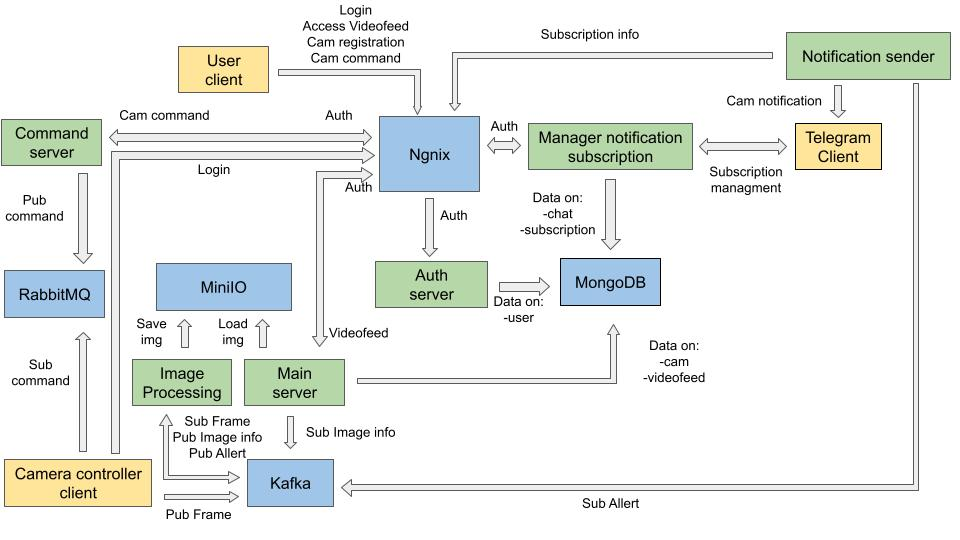
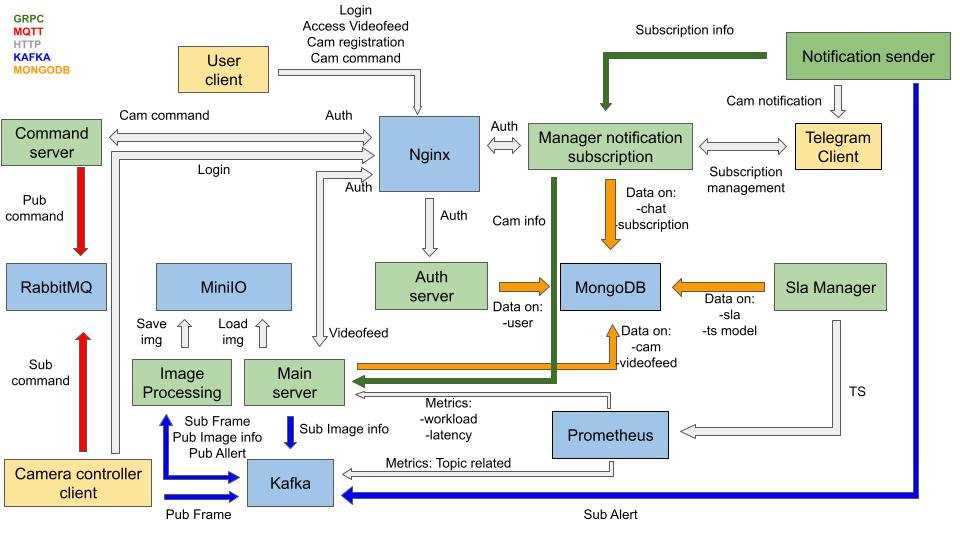
updated Communication_scheme.jpg

diff --git a/GO/src/templates/index.html b/GO/src/templates/index.html
@@ -1,16 +1,72 @@
 <!DOCTYPE html>
 <html lang="en">
 <head>
-  <meta charset="UTF-8">
-  <meta name="viewport" content="width=device-width, initial-scale=1.0">
-  <title>Camera List</title>
+    <meta charset="UTF-8">
+    <meta content="width=device-width, initial-scale=1.0" name="viewport">
+    <title>Camera List</title>
 </head>
 <body>
 <h1>Available Cameras</h1>
 <ul>
-  {{range .Cameras}}
-  <li><a href="/api/videoFeed/{{.ID}}">Camera {{.ID}}</a></li>
-  {{end}}
+    {{range .Cameras}}
+    <li><a href="/api/videoFeed/{{.ID}}">Camera {{.ID}}</a></li>
+    {{end}}
 </ul>
+
+<!-- Add Button to Add New Camera -->
+<form id="addCameraForm">
+    <button type="submit">Add New Camera</button>
+</form>
+
+<script>
+    // Handle form submission
+    document.getElementById("addCameraForm").addEventListener("submit", function (event) {
+        event.preventDefault(); // Prevent default form submission
+
+        // Perform POST request to add a new camera
+        fetch("/api/camera", {
+            method: "POST",
+            headers: {
+                "Content-Type": "application/json"
+            },
+            body: JSON.stringify({
+                // Provide any necessary data for creating a new camera
+            })
+        })
+            .then(response => {
+                if (!response.ok) {
+                    throw new Error("Failed to add camera");
+                }
+                return response.json();
+            })
+            .then(data => {
+                // Handle success response
+                console.log("Camera added successfully:", data);
+
+                // Update the UI with the new camera link
+                addCameraLink(data.cam_id);
+            })
+            .catch(error => {
+                // Handle error
+                console.error("Error adding camera:", error);
+            });
+    });
+
+    // Function to add a new camera link to the UI
+    function addCameraLink(camId) {
+        const camerasList = document.querySelector("ul");
+
+        // Create a new list item and link for the camera
+        const newListItem = document.createElement("li");
+        const newLink = document.createElement("a");
+        newLink.href = "/api/videoFeed/" + camId;
+        newLink.textContent = "Camera " + camId;
+
+        // Append the link to the list item and the list item to the cameras list
+        newListItem.appendChild(newLink);
+        camerasList.appendChild(newListItem);
+    }
+</script>
+
 </body>
 </html>

diff --git a/README.md b/README.md
@@ -28,18 +28,20 @@
     - 8.1 [Funzionalità Chiave](#funzionalità-chiave-1)
     - 8.2 [Integrazione con il Servizio di Sottoscrizione Notifiche](#integrazione-con-il-servizio-di-sottoscrizione-notifiche)
     - 8.3 [Miglioramento del Coinvolgimento Utente](#miglioramento-del-coinvolgimento-utente)
-9. [Archiviazione Coerente dei Dati con MongoDB](#archiviazione-coerente-dei-dati-con-mongodb)
-    - 9.1 [Punti Chiave](#punti-chiave)
-10. [Gateway API in Kubernetes (K8s)](#gateway-api-in-kubernetes-k8s)
-    - 10.1 [Caratteristiche Principali](#caratteristiche-principali-2)
-11. [Generazione di URL Pre-firmati da Main Server](#generazione-di-url-pre-firmati-da-main-server)
-    - 11.1 [Punti Chiave](#punti-chiave-1)
-12. [Conclusioni](#conclusioni)
-    - 12.1 [Reattività in Tempo Reale](#reattività-in-tempo-reale)
-    - 12.2 [Scaling Dinamico](#scaling-dinamico)
-    - 12.3 [Miglioramenti dell'Interfaccia Utente](#miglioramenti-dellinterfaccia-utente)
-    - 12.4 [Integrazione con Sistemi Esterni](#integrazione-con-sistemi-esterni)
-
+9. [Sla Manager](#sla-manager)
+    - 9.1 [Funzionalità Chiave](#funzionalità-chiave-2)
+    - 9.2 [Aggiornamento Continuo del Modello](#aggiornamento-continuo-del-modello)
+10. [Archiviazione Coerente dei Dati con MongoDB](#archiviazione-coerente-dei-dati-con-mongodb)
+    - 10.1 [Punti Chiave](#punti-chiave)
+11. [Gateway API in Kubernetes (K8s)](#gateway-api-in-kubernetes-k8s)
+    - 11.1 [Caratteristiche Principali](#caratteristiche-principali-2)
+12. [Generazione di URL Pre-firmati da Main Server](#generazione-di-url-pre-firmati-da-main-server)
+    - 12.1 [Punti Chiave](#punti-chiave-1)
+13. [Conclusioni](#conclusioni)
+    - 13.1 [Reattività in Tempo Reale](#reattività-in-tempo-reale)
+    - 13.2 [Scaling Dinamico](#scaling-dinamico)
+    - 13.3 [Miglioramenti dell'Interfaccia Utente](#miglioramenti-dellinterfaccia-utente)
+    - 13.4 [Integrazione con Sistemi Esterni](#integrazione-con-sistemi-esterni)
 ### **Introduzione:**
 
 Il sistema di monitoraggio delle telecamere distribuite è una soluzione completa che affronta le esigenze della
@@ -428,7 +430,9 @@ Telegram.-->
 
 ---
 
-### **Server di Stima della Probabilità Gaussiana e Adattamento del Modello**
+### **Sla Manager**
+**[Src](Python/src/sla_manager/main.py)**
+
 
 Il server SlaManager è un componente cruciale del sistema di monitoraggio delle telecamere distribuite. Consente l'aggiornamento dinamico degli SLA e utilizza tecniche di analisi dei dati per valutare la probabilità di violazioni delle SLA definite e per adattare i modelli alle condizioni correnti dei dati.
 
